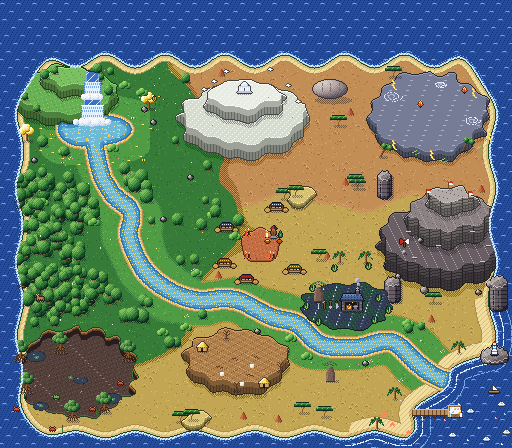
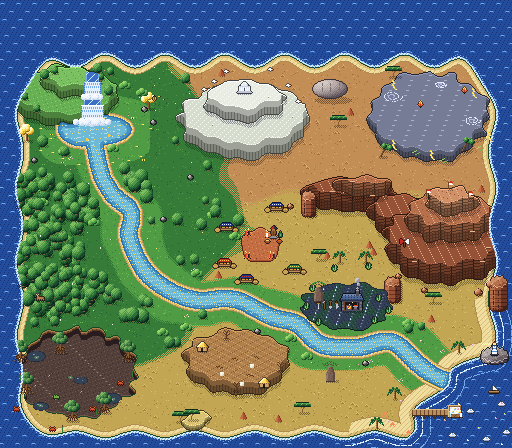
Ọ̀run: a pedreira de Xangô vira uma serra comprida de pedra vermelha (arenito)
Claude-Session: https://claude.ai/code/session_01YNJz6pAgFVkCK3E9s9URPQ

Changed region(s): [[0.5312, 0.375, 1.0, 0.7188], [0.625, 0.9062, 0.6562, 0.9375]]

diff --git a/README.md b/README.md
@@ -222,7 +222,7 @@ no teclado, "Aperte E". Nos diálogos e avisos, escreva `{interagir}`, `{atirar}
   cestos (`mercado()` no `gerar_mapa_mundo.py`).
 - **Paisagens do Ọ̀run** (`bioma()` e `paisagens()` no `gerar_mapa_mundo.py`): floresta verde-escura a oeste (Oxum e
   Oxóssi), mata ciliar verde ao longo do rio e da lagoa, savana dourada no meio (acácias, baobás, cupinzeiros e capim)
-  e savana seca avermelhada no norte e no leste, com morros de granito. A pedreira de Xangô ficou enorme, em três
+  e savana seca avermelhada no norte e no leste, com morros de granito. A pedreira de Xangô virou uma serra comprida de pedra vermelha (arenito), em três
   andares, e muitas nuvens passam devagar pelo reino de Oxalá (`_criar_nuvens_de_oxala()` no `scripts/mapa_mundo.gd`).
 - **A praia de Iemanjá no Ọ̀run** (`praia_de_iemanja()` no `gerar_mapa_mundo.py`): praia larga com ondas chegando e
   areia molhada, trapiche de madeira com o lugar de Iemanjá na ponta (flores e velas azuis e brancas), barquinhos e
